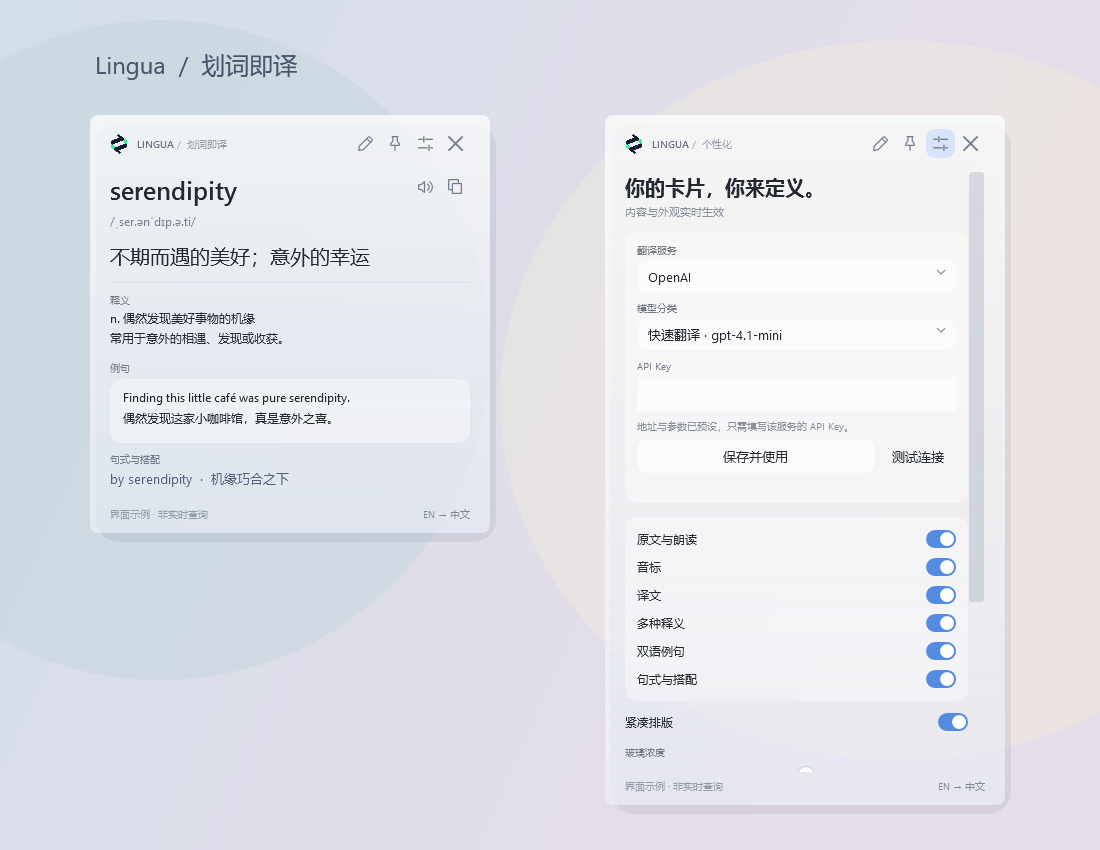
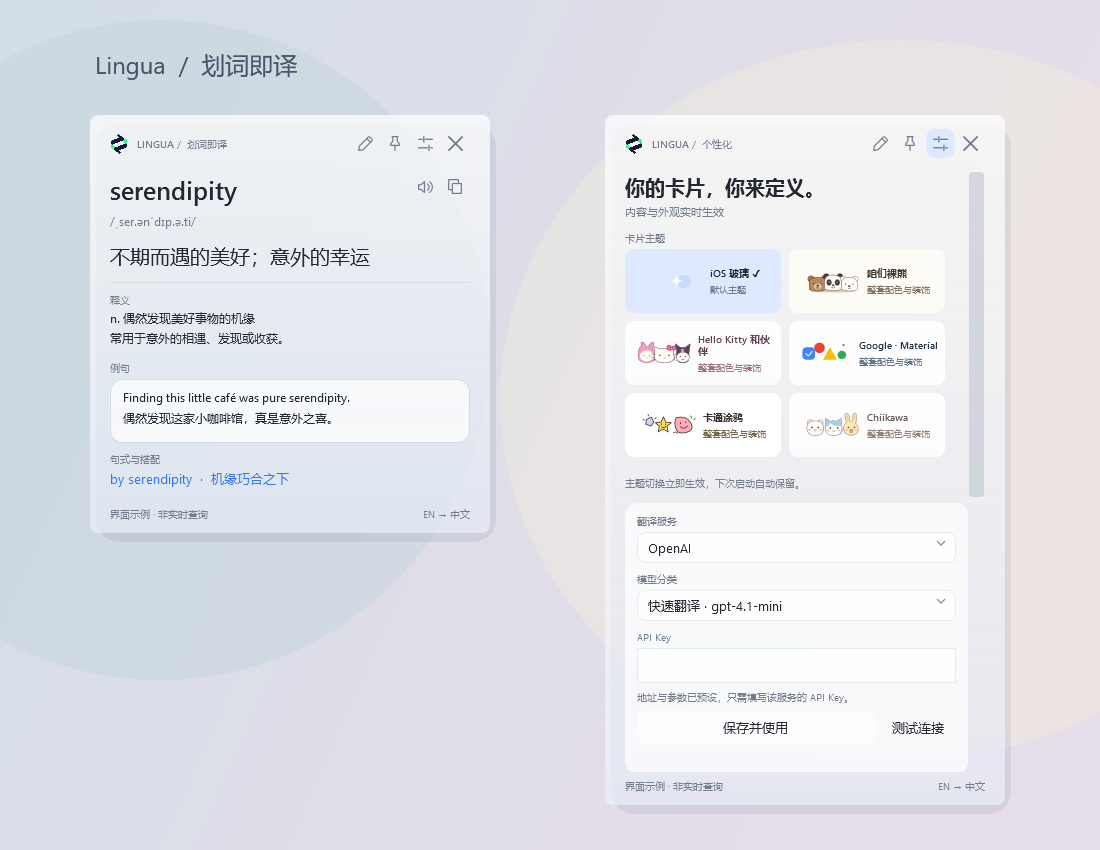
Add six selectable card themes with iOS default

diff --git a/Card.xaml b/Card.xaml
@@ -3,55 +3,61 @@
   <Style TargetType="ScrollBar"><Setter Property="Width" Value="6"/><Setter Property="Background" Value="Transparent"/><Setter Property="Template"><Setter.Value><ControlTemplate TargetType="ScrollBar"><Track x:Name="PART_Track" IsDirectionReversed="True" Orientation="Vertical"><Track.DecreaseRepeatButton><RepeatButton Command="ScrollBar.PageUpCommand" Opacity="0" Focusable="False"/></Track.DecreaseRepeatButton><Track.Thumb><Thumb><Thumb.Template><ControlTemplate><Border Background="#50919CAB" CornerRadius="3" Margin="1,0"/></ControlTemplate></Thumb.Template></Thumb></Track.Thumb><Track.IncreaseRepeatButton><RepeatButton Command="ScrollBar.PageDownCommand" Opacity="0" Focusable="False"/></Track.IncreaseRepeatButton></Track></ControlTemplate></Setter.Value></Setter></Style>
   <SolidColorBrush x:Key="Ink" Color="#242832"/>
   <SolidColorBrush x:Key="Muted" Color="#747986"/>
-  <Style TargetType="TextBlock"><Setter Property="Foreground" Value="{StaticResource Ink}"/><Setter Property="TextWrapping" Value="Wrap"/><Setter Property="FontSize" Value="13"/></Style>
-  <Style x:Key="Caption" TargetType="TextBlock"><Setter Property="Foreground" Value="{StaticResource Muted}"/><Setter Property="FontSize" Value="10"/><Setter Property="Margin" Value="0,0,0,5"/></Style>
-  <Style TargetType="Button"><Setter Property="Cursor" Value="Hand"/><Setter Property="Background" Value="Transparent"/><Setter Property="Foreground" Value="{StaticResource Ink}"/><Setter Property="Padding" Value="7"/><Setter Property="BorderThickness" Value="0"/><Setter Property="Template"><Setter.Value><ControlTemplate TargetType="Button"><Border x:Name="b" CornerRadius="9" Background="{TemplateBinding Background}" Padding="{TemplateBinding Padding}"><ContentPresenter HorizontalAlignment="Center" VerticalAlignment="Center"/></Border><ControlTemplate.Triggers><Trigger Property="IsMouseOver" Value="True"><Setter TargetName="b" Property="Background" Value="#A6FFFFFF"/></Trigger><Trigger Property="IsPressed" Value="True"><Setter TargetName="b" Property="Background" Value="#CADCE3F4"/></Trigger><Trigger Property="IsKeyboardFocused" Value="True"><Setter TargetName="b" Property="BorderBrush" Value="#7194E9"/><Setter TargetName="b" Property="BorderThickness" Value="1"/></Trigger></ControlTemplate.Triggers></ControlTemplate></Setter.Value></Setter></Style>
-  <Style TargetType="CheckBox"><Setter Property="Margin" Value="0,5"/><Setter Property="FontSize" Value="12"/><Setter Property="Foreground" Value="{StaticResource Ink}"/><Setter Property="Cursor" Value="Hand"/><Setter Property="Template"><Setter.Value><ControlTemplate TargetType="CheckBox"><DockPanel><Border x:Name="track" DockPanel.Dock="Right" Width="30" Height="18" CornerRadius="9" Background="#CCD0D7"><Ellipse x:Name="thumb" Width="14" Height="14" Fill="White" HorizontalAlignment="Left" Margin="2"/></Border><ContentPresenter VerticalAlignment="Center"/></DockPanel><ControlTemplate.Triggers><Trigger Property="IsChecked" Value="True"><Setter TargetName="track" Property="Background" Value="#528BDF"/><Setter TargetName="thumb" Property="HorizontalAlignment" Value="Right"/></Trigger><Trigger Property="IsKeyboardFocused" Value="True"><Setter TargetName="track" Property="BorderBrush" Value="#243F76"/><Setter TargetName="track" Property="BorderThickness" Value="1"/></Trigger></ControlTemplate.Triggers></ControlTemplate></Setter.Value></Setter></Style>
+  <SolidColorBrush x:Key="AccentBrush" Color="#3478F6"/>
+  <SolidColorBrush x:Key="AccentSoftBrush" Color="#DEE9FF"/>
+  <SolidColorBrush x:Key="PanelBrush" Color="#B8FFFFFF"/>
+  <SolidColorBrush x:Key="LineBrush" Color="#23748195"/>
+  <Style TargetType="TextBlock"><Setter Property="Foreground" Value="{DynamicResource Ink}"/><Setter Property="TextWrapping" Value="Wrap"/><Setter Property="FontSize" Value="13"/></Style>
+  <Style x:Key="Caption" TargetType="TextBlock"><Setter Property="Foreground" Value="{DynamicResource Muted}"/><Setter Property="FontSize" Value="10"/><Setter Property="Margin" Value="0,0,0,5"/></Style>
+  <Style TargetType="Button"><Setter Property="Cursor" Value="Hand"/><Setter Property="Background" Value="Transparent"/><Setter Property="Foreground" Value="{DynamicResource Ink}"/><Setter Property="Padding" Value="7"/><Setter Property="BorderThickness" Value="0"/><Setter Property="Template"><Setter.Value><ControlTemplate TargetType="Button"><Border x:Name="b" CornerRadius="9" Background="{TemplateBinding Background}" Padding="{TemplateBinding Padding}"><ContentPresenter HorizontalAlignment="Center" VerticalAlignment="Center"/></Border><ControlTemplate.Triggers><Trigger Property="IsMouseOver" Value="True"><Setter TargetName="b" Property="Background" Value="{DynamicResource PanelBrush}"/></Trigger><Trigger Property="IsPressed" Value="True"><Setter TargetName="b" Property="Background" Value="{DynamicResource AccentSoftBrush}"/></Trigger><Trigger Property="IsKeyboardFocused" Value="True"><Setter TargetName="b" Property="BorderBrush" Value="#7194E9"/><Setter TargetName="b" Property="BorderThickness" Value="1"/></Trigger></ControlTemplate.Triggers></ControlTemplate></Setter.Value></Setter></Style>
+  <Style TargetType="CheckBox"><Setter Property="Margin" Value="0,5"/><Setter Property="FontSize" Value="12"/><Setter Property="Foreground" Value="{DynamicResource Ink}"/><Setter Property="Cursor" Value="Hand"/><Setter Property="Template"><Setter.Value><ControlTemplate TargetType="CheckBox"><DockPanel><Border x:Name="track" DockPanel.Dock="Right" Width="30" Height="18" CornerRadius="9" Background="#CCD0D7"><Ellipse x:Name="thumb" Width="14" Height="14" Fill="White" HorizontalAlignment="Left" Margin="2"/></Border><ContentPresenter VerticalAlignment="Center"/></DockPanel><ControlTemplate.Triggers><Trigger Property="IsChecked" Value="True"><Setter TargetName="track" Property="Background" Value="{DynamicResource AccentBrush}"/><Setter TargetName="thumb" Property="HorizontalAlignment" Value="Right"/></Trigger><Trigger Property="IsKeyboardFocused" Value="True"><Setter TargetName="track" Property="BorderBrush" Value="#243F76"/><Setter TargetName="track" Property="BorderThickness" Value="1"/></Trigger></ControlTemplate.Triggers></ControlTemplate></Setter.Value></Setter></Style>
   <Style TargetType="TextBox"><Setter Property="Background" Value="#96FFFFFF"/><Setter Property="BorderBrush" Value="#C6D2D8E3"/><Setter Property="Padding" Value="8,6"/><Setter Property="FontSize" Value="12"/><Setter Property="Margin" Value="0,4,0,8"/></Style>
-  <Style TargetType="ComboBox"><Setter Property="FontSize" Value="12"/><Setter Property="Template"><Setter.Value><ControlTemplate TargetType="ComboBox"><Grid><ToggleButton Focusable="False" IsChecked="{Binding IsDropDownOpen, RelativeSource={RelativeSource TemplatedParent}, Mode=TwoWay}"><ToggleButton.Template><ControlTemplate TargetType="ToggleButton"><Border Background="#87FFFFFF" CornerRadius="8" BorderThickness="1" BorderBrush="#70FFFFFF" Padding="10,8"><Path Data="M0 0 L4 4 L8 0" Stroke="#8892A2" StrokeThickness="1.3" HorizontalAlignment="Right"/></Border></ControlTemplate></ToggleButton.Template></ToggleButton><ContentPresenter Content="{TemplateBinding SelectionBoxItem}" Margin="11,7,28,7" IsHitTestVisible="False"/><Popup x:Name="PART_Popup" IsOpen="{TemplateBinding IsDropDownOpen}" Placement="Bottom" AllowsTransparency="True" Focusable="False" PopupAnimation="Fade"><Border Background="#F3F5F8" CornerRadius="9" Padding="5" MinWidth="200" BorderBrush="#D5DCE6" BorderThickness="1"><ScrollViewer MaxHeight="220"><ItemsPresenter/></ScrollViewer></Border></Popup></Grid></ControlTemplate></Setter.Value></Setter></Style>
-  <Style TargetType="Slider"><Setter Property="Height" Value="24"/><Setter Property="Template"><Setter.Value><ControlTemplate TargetType="Slider"><Grid><Border Height="3" Background="#D4DAE3" CornerRadius="2"/><Track x:Name="PART_Track"><Track.DecreaseRepeatButton><RepeatButton Command="Slider.DecreaseLarge" Focusable="False"><RepeatButton.Template><ControlTemplate><Border Height="3" Background="#8AAADB" CornerRadius="2"/></ControlTemplate></RepeatButton.Template></RepeatButton></Track.DecreaseRepeatButton><Track.Thumb><Thumb Width="18" Height="18"><Thumb.Template><ControlTemplate><Ellipse Fill="#FFFFFF" Stroke="#C2CDDC" StrokeThickness="1"/></ControlTemplate></Thumb.Template></Thumb></Track.Thumb><Track.IncreaseRepeatButton><RepeatButton Command="Slider.IncreaseLarge" Focusable="False"><RepeatButton.Template><ControlTemplate><Border Background="Transparent"/></ControlTemplate></RepeatButton.Template></RepeatButton></Track.IncreaseRepeatButton></Track></Grid></ControlTemplate></Setter.Value></Setter></Style>
+  <Style TargetType="ComboBox"><Setter Property="FontSize" Value="12"/><Setter Property="Template"><Setter.Value><ControlTemplate TargetType="ComboBox"><Grid><ToggleButton Focusable="False" IsChecked="{Binding IsDropDownOpen, RelativeSource={RelativeSource TemplatedParent}, Mode=TwoWay}"><ToggleButton.Template><ControlTemplate TargetType="ToggleButton"><Border Background="{DynamicResource PanelBrush}" CornerRadius="8" BorderThickness="1" BorderBrush="{DynamicResource LineBrush}" Padding="10,8"><Path Data="M0 0 L4 4 L8 0" Stroke="#8892A2" StrokeThickness="1.3" HorizontalAlignment="Right"/></Border></ControlTemplate></ToggleButton.Template></ToggleButton><ContentPresenter Content="{TemplateBinding SelectionBoxItem}" Margin="11,7,28,7" IsHitTestVisible="False"/><Popup x:Name="PART_Popup" IsOpen="{TemplateBinding IsDropDownOpen}" Placement="Bottom" AllowsTransparency="True" Focusable="False" PopupAnimation="Fade"><Border Background="#F3F5F8" CornerRadius="9" Padding="5" MinWidth="200" BorderBrush="#D5DCE6" BorderThickness="1"><ScrollViewer MaxHeight="220"><ItemsPresenter/></ScrollViewer></Border></Popup></Grid></ControlTemplate></Setter.Value></Setter></Style>
+  <Style TargetType="Slider"><Setter Property="Height" Value="24"/><Setter Property="Template"><Setter.Value><ControlTemplate TargetType="Slider"><Grid><Border Height="3" Background="#D4DAE3" CornerRadius="2"/><Track x:Name="PART_Track"><Track.DecreaseRepeatButton><RepeatButton Command="Slider.DecreaseLarge" Focusable="False"><RepeatButton.Template><ControlTemplate><Border Height="3" Background="{DynamicResource AccentBrush}" CornerRadius="2"/></ControlTemplate></RepeatButton.Template></RepeatButton></Track.DecreaseRepeatButton><Track.Thumb><Thumb Width="18" Height="18"><Thumb.Template><ControlTemplate><Ellipse Fill="#FFFFFF" Stroke="#C2CDDC" StrokeThickness="1"/></ControlTemplate></Thumb.Template></Thumb></Track.Thumb><Track.IncreaseRepeatButton><RepeatButton Command="Slider.IncreaseLarge" Focusable="False"><RepeatButton.Template><ControlTemplate><Border Background="Transparent"/></ControlTemplate></RepeatButton.Template></RepeatButton></Track.IncreaseRepeatButton></Track></Grid></ControlTemplate></Setter.Value></Setter></Style>
  </Border.Resources>
  <StackPanel>
   <Grid x:Name="Header" Margin="0,0,0,13" Background="Transparent">
-   <StackPanel Orientation="Horizontal" VerticalAlignment="Center"><Image x:Name="BrandLogo" Width="30" Height="30" Margin="-6,0,3,0" Stretch="Uniform"/><TextBlock Text="LINGUA" FontSize="10" FontWeight="SemiBold" Foreground="#6A7180" VerticalAlignment="Center"/><TextBlock x:Name="Mode" Text=" /  划词即译" FontSize="10" Foreground="#969BA5" VerticalAlignment="Center"/></StackPanel>
+   <StackPanel Orientation="Horizontal" VerticalAlignment="Center"><Image x:Name="BrandLogo" Width="30" Height="30" Margin="-6,0,3,0" Stretch="Uniform"/><TextBlock Text="LINGUA" FontSize="10" FontWeight="SemiBold" Foreground="{DynamicResource Muted}" VerticalAlignment="Center"/><TextBlock x:Name="Mode" Text=" /  划词即译" FontSize="10" Foreground="{DynamicResource Muted}" VerticalAlignment="Center"/></StackPanel>
    <StackPanel x:Name="Tools" Orientation="Horizontal" HorizontalAlignment="Right"/>
   </Grid>
   <ScrollViewer x:Name="Viewport" VerticalScrollBarVisibility="Auto" HorizontalScrollBarVisibility="Disabled" MaxHeight="560">
    <StackPanel>
     <StackPanel x:Name="Reading">
+     <Border x:Name="ThemeBanner" Background="{DynamicResource PanelBrush}" CornerRadius="14" Padding="12,0,3,0" Margin="0,0,0,12" Visibility="Collapsed"><Grid Height="70"><Grid.ColumnDefinitions><ColumnDefinition/><ColumnDefinition Width="150"/></Grid.ColumnDefinitions><StackPanel VerticalAlignment="Center"><TextBlock x:Name="ThemeName" FontSize="11" FontWeight="SemiBold" Foreground="{DynamicResource AccentBrush}"/><TextBlock x:Name="ThemeSubtitle" FontSize="10" Foreground="{DynamicResource Muted}" Margin="0,5,0,0"/></StackPanel><Image x:Name="ThemeArt" Grid.Column="1" Width="150" Height="68" Stretch="Uniform"/></Grid></Border>
      <Grid x:Name="OriginalSection" Margin="0,0,0,7"><Grid.ColumnDefinitions><ColumnDefinition/><ColumnDefinition Width="Auto"/></Grid.ColumnDefinitions><TextBlock x:Name="Original" Text="划词，即刻理解。" FontSize="25" FontWeight="SemiBold" LineHeight="31"/><StackPanel x:Name="WordTools" Grid.Column="1" Orientation="Horizontal" VerticalAlignment="Top" Margin="6,0,0,0"/></Grid>
-     <TextBlock x:Name="Phonetic" Foreground="#7A8190" FontSize="12" Margin="0,0,0,12"/>
-     <Border x:Name="Editor" Background="#65FFFFFF" CornerRadius="12" Padding="8" Margin="0,0,0,10" Visibility="Collapsed"><StackPanel><TextBox x:Name="Input" AcceptsReturn="True" MaxLength="2000" Height="66" TextWrapping="Wrap" VerticalScrollBarVisibility="Auto"/><Button x:Name="Submit" Content="翻译  ↵" HorizontalAlignment="Right" Padding="14,6" Background="#B6FFFFFF"/></StackPanel></Border>
+     <TextBlock x:Name="Phonetic" Foreground="{DynamicResource Muted}" FontSize="12" Margin="0,0,0,12"/>
+     <Border x:Name="Editor" Background="{DynamicResource PanelBrush}" CornerRadius="12" Padding="8" Margin="0,0,0,10" Visibility="Collapsed"><StackPanel><TextBox x:Name="Input" AcceptsReturn="True" MaxLength="2000" Height="66" TextWrapping="Wrap" VerticalScrollBarVisibility="Auto"/><Button x:Name="Submit" Content="翻译  ↵" HorizontalAlignment="Right" Padding="14,6" Background="{DynamicResource PanelBrush}"/></StackPanel></Border>
      <StackPanel x:Name="TranslationSection" Margin="0,0,0,13"><TextBlock x:Name="Translation" Text="选中一段文字，翻译会自动浮现。" FontSize="20" FontWeight="Medium" LineHeight="28"/></StackPanel>
-     <Border x:Name="DetailsSection" BorderBrush="#20778195" BorderThickness="0,1,0,0" Padding="0,11,0,0" Margin="0,0,0,11"><StackPanel><TextBlock Text="释义" Style="{StaticResource Caption}"/><TextBlock x:Name="Details" LineHeight="20"/></StackPanel></Border>
-     <StackPanel x:Name="ExamplesSection" Margin="0,0,0,10"><TextBlock Text="例句" Style="{StaticResource Caption}"/><Border Background="#65FFFFFF" BorderBrush="#75FFFFFF" BorderThickness="1" CornerRadius="12" Padding="12,10"><TextBlock x:Name="Examples" LineHeight="21"/></Border></StackPanel>
-     <StackPanel x:Name="StructureSection" Margin="0,0,0,10"><TextBlock Text="句式与搭配" Style="{StaticResource Caption}"/><TextBlock x:Name="Structure" Foreground="#53627C" LineHeight="20"/></StackPanel>
-     <TextBlock x:Name="Notice" Text="点击右上角，自定义你的学习卡片。" Foreground="#87909E" FontSize="11" Margin="0,1,0,10"/>
+     <Border x:Name="DetailsSection" BorderBrush="{DynamicResource LineBrush}" BorderThickness="0,1,0,0" Padding="0,11,0,0" Margin="0,0,0,11"><StackPanel><TextBlock Text="释义" Style="{StaticResource Caption}"/><TextBlock x:Name="Details" LineHeight="20"/></StackPanel></Border>
+     <StackPanel x:Name="ExamplesSection" Margin="0,0,0,10"><TextBlock Text="例句" Style="{StaticResource Caption}"/><Border x:Name="ExampleSurface" Background="{DynamicResource PanelBrush}" BorderBrush="{DynamicResource LineBrush}" BorderThickness="1" CornerRadius="12" Padding="12,10"><TextBlock x:Name="Examples" LineHeight="21"/></Border></StackPanel>
+     <StackPanel x:Name="StructureSection" Margin="0,0,0,10"><TextBlock Text="句式与搭配" Style="{StaticResource Caption}"/><TextBlock x:Name="Structure" Foreground="{DynamicResource AccentBrush}" LineHeight="20"/></StackPanel>
+     <TextBlock x:Name="Notice" Text="点击右上角，自定义你的学习卡片。" Foreground="{DynamicResource Muted}" FontSize="11" Margin="0,1,0,10"/>
     </StackPanel>
     <StackPanel x:Name="Preferences" Visibility="Collapsed">
-     <TextBlock Text="你的卡片，你来定义。" FontSize="20" FontWeight="SemiBold" Margin="0,0,0,5"/><TextBlock Text="内容与外观实时生效" FontSize="11" Foreground="#89909C" Margin="0,0,0,14"/>
-     <Border CornerRadius="12" Background="#65FFFFFF" Padding="12" Margin="0,0,0,14"><StackPanel>
+     <TextBlock Text="你的卡片，你来定义。" FontSize="20" FontWeight="SemiBold" Margin="0,0,0,5"/><TextBlock Text="内容与外观实时生效" FontSize="11" Foreground="{DynamicResource Muted}" Margin="0,0,0,14"/>
+     <TextBlock Text="卡片主题" Style="{StaticResource Caption}"/><WrapPanel x:Name="ThemeGallery" Margin="0,0,0,12"/><TextBlock Text="主题切换立即生效，下次启动自动保留。" FontSize="10" Foreground="{DynamicResource Muted}" Margin="0,0,0,14"/>
+     <Border CornerRadius="12" Background="{DynamicResource PanelBrush}" Padding="12" Margin="0,0,0,14"><StackPanel>
       <TextBlock Text="翻译服务" Style="{StaticResource Caption}"/><ComboBox x:Name="Service" Margin="0,0,0,10"/>
       <StackPanel x:Name="PresetSection"><TextBlock Text="模型分类" Style="{StaticResource Caption}"/><ComboBox x:Name="ModelPreset" Margin="0,0,0,10"/></StackPanel>
       <StackPanel x:Name="CustomSection" Visibility="Collapsed"><TextBlock Text="HTTPS 完整接口地址" FontSize="11"/><TextBox x:Name="Endpoint"/><TextBlock Text="模型名称" FontSize="11"/><TextBox x:Name="Model"/></StackPanel>
-      <StackPanel x:Name="KeySection"><TextBlock Text="API Key" Style="{StaticResource Caption}"/><PasswordBox x:Name="ApiKey" Padding="8,8" Margin="0,0,0,8" Background="#96FFFFFF" BorderBrush="#80FFFFFF"/></StackPanel>
-      <TextBlock x:Name="ServiceHint" Text="选择服务和模型，只需填写 Key。" FontSize="10" Foreground="#89909C" Margin="0,0,0,8"/>
-      <Grid><Grid.ColumnDefinitions><ColumnDefinition/><ColumnDefinition Width="Auto"/></Grid.ColumnDefinitions><Button x:Name="SaveService" Content="保存并使用" Padding="12,8" Background="#A0FFFFFF"/><Button x:Name="TestService" Grid.Column="1" Content="测试连接" Padding="12,8" Margin="5,0,0,0" ToolTip="使用 hello 进行一次模型测试调用"/></Grid>
-      <TextBlock x:Name="ServiceStatus" FontSize="10" Foreground="#677D9D" Margin="0,6,0,0"/>
+      <StackPanel x:Name="KeySection"><TextBlock Text="API Key" Style="{StaticResource Caption}"/><PasswordBox x:Name="ApiKey" Padding="8,8" Margin="0,0,0,8" Background="{DynamicResource PanelBrush}" BorderBrush="{DynamicResource LineBrush}"/></StackPanel>
+      <TextBlock x:Name="ServiceHint" Text="选择服务和模型，只需填写 Key。" FontSize="10" Foreground="{DynamicResource Muted}" Margin="0,0,0,8"/>
+      <Grid><Grid.ColumnDefinitions><ColumnDefinition/><ColumnDefinition Width="Auto"/></Grid.ColumnDefinitions><Button x:Name="SaveService" Content="保存并使用" Padding="12,8" Background="{DynamicResource PanelBrush}"/><Button x:Name="TestService" Grid.Column="1" Content="测试连接" Padding="12,8" Margin="5,0,0,0" ToolTip="使用 hello 进行一次模型测试调用"/></Grid>
+      <TextBlock x:Name="ServiceStatus" FontSize="10" Foreground="{DynamicResource Muted}" Margin="0,6,0,0"/>
      </StackPanel></Border>
-     <Border CornerRadius="12" Background="#65FFFFFF" Padding="12,8"><StackPanel x:Name="ModuleOptions"/></Border>
+     <Border CornerRadius="12" Background="{DynamicResource PanelBrush}" Padding="12,8"><StackPanel x:Name="ModuleOptions"/></Border>
      <CheckBox x:Name="CompactOption" Content="紧凑排版" Margin="0,12,0,7"/>
      <TextBlock Text="玻璃浓度" Style="{StaticResource Caption}" Margin="0,8,0,5"/><Slider x:Name="Tint" Minimum="70" Maximum="240" TickFrequency="10" IsSnapToTickEnabled="True" Margin="0,0,0,12"/>
-     <CheckBox x:Name="AutomaticOption" Content="划词后自动翻译"/><TextBlock Text="启用时，选中的文本会直接发送到翻译服务。" FontSize="10" Foreground="#8A919E" Margin="0,4,0,12"/>
+     <CheckBox x:Name="AutomaticOption" Content="划词后自动翻译"/><TextBlock Text="启用时，选中的文本会直接发送到翻译服务。" FontSize="10" Foreground="{DynamicResource Muted}" Margin="0,4,0,12"/>
      <TextBlock Text="目标语言" Style="{StaticResource Caption}"/><ComboBox x:Name="Language" Margin="0,0,0,12"/>
      <TextBlock Text="朗读声音" Style="{StaticResource Caption}"/><ComboBox x:Name="Voice" Margin="0,0,0,12"/>
      <Expander Header="排除应用" FontSize="12" Margin="0,5,0,10"><StackPanel Margin="0,12,0,0">
       <TextBlock Text="排除应用 · 逗号分隔进程名" FontSize="11"/><TextBox x:Name="Excluded"/>
-      <Button x:Name="SaveExcluded" Content="保存排除应用" Padding="12,8" Background="#A0FFFFFF"/>
+      <Button x:Name="SaveExcluded" Content="保存排除应用" Padding="12,8" Background="{DynamicResource PanelBrush}"/>
      </StackPanel></Expander>
     </StackPanel>
    </StackPanel>
   </ScrollViewer>
-  <Grid Margin="0,8,0,0"><Grid.ColumnDefinitions><ColumnDefinition/><ColumnDefinition Width="Auto"/></Grid.ColumnDefinitions><TextBlock x:Name="Status" Text="就绪" Foreground="#949BA7" FontSize="10" TextTrimming="CharacterEllipsis" TextWrapping="NoWrap" VerticalAlignment="Center"/><TextBlock x:Name="LanguageLabel" Grid.Column="1" Text="EN → 中文" Foreground="#818997" FontSize="10" Margin="12,0,0,0" VerticalAlignment="Center"/></Grid>
+  <Grid Margin="0,8,0,0"><Grid.ColumnDefinitions><ColumnDefinition/><ColumnDefinition Width="Auto"/></Grid.ColumnDefinitions><TextBlock x:Name="Status" Text="就绪" Foreground="{DynamicResource Muted}" FontSize="10" TextTrimming="CharacterEllipsis" TextWrapping="NoWrap" VerticalAlignment="Center"/><TextBlock x:Name="LanguageLabel" Grid.Column="1" Text="EN → 中文" Foreground="{DynamicResource Muted}" FontSize="10" Margin="12,0,0,0" VerticalAlignment="Center"/></Grid>
  </StackPanel>
 </Border>

diff --git a/GlassWindow.cs b/GlassWindow.cs
@@ -30,6 +30,7 @@ class GlassWindow : Window {
  string draftScope="";readonly Dictionary<string,string> draftKeys=new Dictionary<string,string>();
  string currentText=""; Answer answer; Button pinButton,settingsButton;
  readonly Dictionary<string,Answer> cache=new Dictionary<string,Answer>();
+ readonly List<Pen> iconPens=new List<Pen>();readonly List<Button> themeButtons=new List<Button>();
  static readonly XDocument vectors=LoadVectors();
  [DllImport("dwmapi.dll")] static extern int DwmSetWindowAttribute(IntPtr hwnd,int attr,ref int value,int size);
  [StructLayout(LayoutKind.Sequential)] struct Margins {public int Left,Right,Top,Bottom;}
@@ -41,7 +42,7 @@ class GlassWindow : Window {
  void Visible(string name,bool show){Find<FrameworkElement>(name).Visibility=show?Visibility.Visible:Visibility.Collapsed;}
  static Brush ColorBrush(string hex){return (Brush)new BrushConverter().ConvertFromString(hex);}
  public GlassWindow(bool test=false) {
-  testing=test;ServicePresets.Migrate(cfg);cfg.Instant=true;cfg.Target=Math.Max(0,Math.Min(6,cfg.Target));
+  testing=test;ServicePresets.Migrate(cfg);cfg.ThemeId=Themes.Get(cfg.ThemeId).Id;cfg.Instant=true;cfg.Target=Math.Max(0,Math.Min(6,cfg.Target));
   Title="Lingua · 玻璃划词卡片";Width=400;SizeToContent=SizeToContent.Height;MaxHeight=SystemParameters.WorkArea.Height-30;
   WindowStyle=WindowStyle.None;ResizeMode=ResizeMode.NoResize;ShowInTaskbar=false;ShowActivated=false;Topmost=true;
   Background=Brushes.Transparent;UseLayoutRounding=true;SnapsToDevicePixels=true;FontFamily=new FontFamily("Segoe UI, Microsoft YaHei UI");FontSize=13;WindowStartupLocation=WindowStartupLocation.CenterScreen;
@@ -52,7 +53,7 @@ class GlassWindow : Window {
   if(acrylic)shell.CornerRadius=new CornerRadius(8); // Match DWM's rounded corners; avoid exposing a second acrylic outline.
   Content=shell;TextOptions.SetTextFormattingMode(this,TextFormattingMode.Display);
   using(var stream=Assembly.GetExecutingAssembly().GetManifestResourceStream("LinguaSelect.logo.png")){var logo=new BitmapImage();logo.BeginInit();logo.CacheOption=BitmapCacheOption.OnLoad;logo.StreamSource=stream;logo.EndInit();logo.Freeze();Find<Image>("BrandLogo").Source=logo;Icon=logo;}
-  pinButton=IconButton("pin","固定卡片",()=>{pinned=!pinned;pinButton.Background=pinned?ColorBrush("#9FC6D9FA"):Brushes.Transparent;pinButton.ToolTip=pinned?"取消固定":"固定卡片";});
+  pinButton=IconButton("pin","固定卡片",()=>{pinned=!pinned;pinButton.Background=pinned?(Brush)shell.Resources["AccentSoftBrush"]:Brushes.Transparent;pinButton.ToolTip=pinned?"取消固定":"固定卡片";});
   settingsButton=IconButton("sliders","自定义卡片",()=>TogglePreferences());
   var tools=Find<StackPanel>("Tools");tools.Children.Add(pinButton);tools.Children.Add(settingsButton);tools.Children.Add(IconButton("close","收起卡片",Dismiss));
   var wordTools=Find<StackPanel>("WordTools");wordTools.Children.Add(IconButton("sound","朗读原文 / 停止",Speak));wordTools.Children.Add(IconButton("copy","复制译文",()=>{try{if(answer!=null)Clipboard.SetText(answer.Translation);}catch{Set("Status","剪贴板正忙，请稍后重试");}}));
@@ -80,12 +81,13 @@ class GlassWindow : Window {
  void AddMenu(ContextMenu menu,string text,Action action){var item=new MenuItem {Header=text};item.Click+=(s,e)=>action();menu.Items.Add(item);}
  Button IconButton(string id,string tooltip,Action action){
   var symbol=vectors.Descendants().First(x=>x.Name.LocalName=="symbol"&&(string)x.Attribute("id")==id);
-  var group=new DrawingGroup();foreach(var p in symbol.Elements()){var pen=new Pen(ColorBrush("#737D8E"),1.65){StartLineCap=PenLineCap.Round,EndLineCap=PenLineCap.Round,LineJoin=PenLineJoin.Round};group.Children.Add(new GeometryDrawing(null,pen,Geometry.Parse((string)p.Attribute("d"))));}
+  var group=new DrawingGroup();foreach(var p in symbol.Elements()){var pen=new Pen(ColorBrush("#737D8E"),1.65){StartLineCap=PenLineCap.Round,EndLineCap=PenLineCap.Round,LineJoin=PenLineJoin.Round};iconPens.Add(pen);group.Children.Add(new GeometryDrawing(null,pen,Geometry.Parse((string)p.Attribute("d"))));}
   var image=new Image {Source=new DrawingImage(group),Width=15,Height=15,Stretch=Stretch.Uniform};
   var b=new Button {Content=image,Width=29,Height=29,Padding=new Thickness(7),ToolTip=tooltip,Margin=new Thickness(1,0,0,0)};
   System.Windows.Automation.AutomationProperties.SetName(b,tooltip);b.Click+=(s,e)=>action();return b;
  }
  void SetupPreferences(){
+  SetupThemeGallery();
   string[] fields={"ShowOriginal","ShowPhonetic","ShowTranslation","ShowDetails","ShowExamples","ShowStructure"};
   string[] names={"原文与朗读","音标","译文","多种释义","双语例句","句式与搭配"};
   for(int i=0;i<fields.Length;i++){var field=typeof(Settings).GetField(fields[i]);var c=new CheckBox {Content=names[i],IsChecked=(bool)field.GetValue(cfg)};c.Click+=(s,e)=>{field.SetValue(cfg,c.IsChecked==true);Save();Render();};Find<StackPanel>("ModuleOptions").Children.Add(c);}
@@ -127,12 +129,26 @@ class GlassWindow : Window {
  void SuppressSystemBorder(){if(handle!=IntPtr.Zero&&Environment.OSVersion.Version.Build>=22000){int none=unchecked((int)0xFFFFFFFE);borderResult=DwmSetWindowAttribute(handle,34,ref none,4);}}
  void Save(){if(testing)return;try{cfg.Save();}catch{Set("Status","无法保存设置，请检查本地目录权限");}}
  void ApplyAppearance(){
-  byte alpha=(byte)Math.Max(70,Math.Min(240,cfg.GlassTint));shell.Background=new LinearGradientBrush(Color.FromArgb((byte)Math.Min(250,alpha+30),255,255,255),Color.FromArgb(alpha,239,243,251),90);
+  var theme=Themes.Get(cfg.ThemeId);byte alpha=(byte)Math.Max(70,Math.Min(240,cfg.GlassTint));if(theme.Id!="ios")alpha=(byte)(215+(alpha-70)*0.2);
+  var top=(Color)ColorConverter.ConvertFromString(theme.Top);var bottom=(Color)ColorConverter.ConvertFromString(theme.Bottom);top.A=(byte)Math.Min(250,alpha+30);bottom.A=alpha;shell.Background=new LinearGradientBrush(top,bottom,90);
+  shell.Resources["Ink"]=Themes.Brush(theme.Ink);shell.Resources["Muted"]=Themes.Brush(theme.Muted);shell.Resources["AccentBrush"]=Themes.Brush(theme.Accent);shell.Resources["AccentSoftBrush"]=Themes.Brush(theme.Soft);shell.Resources["PanelBrush"]=Themes.Brush(theme.Panel);shell.Resources["LineBrush"]=Themes.Brush(theme.Line);
+  Foreground=Themes.Brush(theme.Ink);FontFamily=new FontFamily(theme.Font);foreach(var pen in iconPens){pen.Brush=Themes.Brush(theme.Muted);pen.Thickness=theme.Id=="doodle"?2.1:1.65;}
+  var example=Find<Border>("ExampleSurface");example.CornerRadius=new CornerRadius(theme.Id=="google"?18:theme.Id=="doodle"?5:12);example.BorderThickness=new Thickness(theme.Id=="doodle"?1.7:1);
+  Find<Image>("ThemeArt").Source=Themes.Illustration(theme.Id);Set("ThemeName",theme.Name);Set("ThemeSubtitle",theme.Subtitle);Visible("ThemeBanner",theme.Id!="ios");
+  Find<TextBlock>("Original").FontWeight=theme.Id=="google"?FontWeights.Medium:FontWeights.SemiBold;
+  if(pinButton!=null)pinButton.Background=pinned?Themes.Brush(theme.Soft):Brushes.Transparent;if(settingsButton!=null)settingsButton.Background=preferences?Themes.Brush(theme.Soft):Brushes.Transparent;
+  foreach(var b in themeButtons){var t=(CardTheme)b.Tag;b.Background=Themes.Brush(t.Id==theme.Id?t.Soft:t.Panel);var text=((StackPanel)((Grid)b.Content).Children[1]).Children[0] as TextBlock;text.Text=t.Name+(t.Id==theme.Id?" ✓":"");}
   shell.Padding=cfg.Compact?new Thickness(20,14,20,13):new Thickness(24,20,24,20);Width=cfg.Compact?400:440;
   Find<TextBlock>("Details").FontSize=cfg.Compact?12:14;Find<TextBlock>("Examples").FontSize=cfg.Compact?12:14;
   if(initialized)Fit();
  }
- void TogglePreferences(bool? value=null){preferences=value??!preferences;Visible("Preferences",preferences);Visible("Reading",!preferences);settingsButton.Background=preferences?ColorBrush("#9FC6D9FA"):Brushes.Transparent;Set("Mode",preferences?" /  个性化":" /  划词即译");Fit();}
+ void TogglePreferences(bool? value=null){preferences=value??!preferences;Visible("Preferences",preferences);Visible("Reading",!preferences);settingsButton.Background=preferences?(Brush)shell.Resources["AccentSoftBrush"]:Brushes.Transparent;Set("Mode",preferences?" /  个性化":" /  划词即译");Fit();}
+ void SetupThemeGallery(){
+  foreach(var theme in Themes.All){var t=theme;var grid=new Grid();grid.ColumnDefinitions.Add(new ColumnDefinition {Width=new GridLength(58)});grid.ColumnDefinitions.Add(new ColumnDefinition());grid.Children.Add(new Image {Source=Themes.Illustration(t.Id),Width=57,Height=42});
+   var labels=new StackPanel {VerticalAlignment=VerticalAlignment.Center,Margin=new Thickness(5,0,0,0)};labels.Children.Add(new TextBlock {Text=t.Name,FontSize=10,FontWeight=FontWeights.SemiBold,Foreground=Themes.Brush(t.Ink),TextWrapping=TextWrapping.Wrap});labels.Children.Add(new TextBlock {Text=t.Id=="ios"?"默认主题":"整套配色与装饰",FontSize=9,Foreground=Themes.Brush(t.Muted),Margin=new Thickness(0,4,0,0)});Grid.SetColumn(labels,1);grid.Children.Add(labels);
+   var button=new Button {Content=grid,Tag=t,Width=156,Height=64,Margin=new Thickness(0,0,8,8),Padding=new Thickness(6),ToolTip=t.Name+" · "+t.Subtitle};button.Click+=(s,e)=>{cfg.ThemeId=t.Id;ApplyAppearance();Save();};themeButtons.Add(button);Find<WrapPanel>("ThemeGallery").Children.Add(button);
+  }
+ }
  void OpenEditor(){TogglePreferences(false);Visible("Editor",true);Find<TextBox>("Input").Text=currentText;Show();Activate();Find<TextBox>("Input").Focus();Fit();}
  void Render(){
   Set("Original",currentText==""?"划词，即刻理解。":currentText);Set("LanguageLabel",(Provider.SourceLanguage(currentText)=="en"?"EN":"中文")+" → "+Provider.Languages[cfg.Target]);
@@ -205,7 +221,7 @@ class GlassWindow : Window {
  static RenderTargetBitmap Snapshot(FrameworkElement element){var bitmap=new RenderTargetBitmap((int)Math.Ceiling(element.ActualWidth),(int)Math.Ceiling(element.ActualHeight),96,96,PixelFormats.Pbgra32);bitmap.Render(element);return bitmap;}
  public static void UiTests(){
   var results=new List<string>();int failures=0;Action<string,bool> check=(name,ok)=>{results.Add((ok?"PASS ":"FAIL ")+name);if(!ok)failures++;};
-  var app=new Application();var card=new GlassWindow(true);IntPtr foreground=Native.GetForegroundWindow();card.Show();card.UpdateLayout();
+  var app=new Application();var card=new GlassWindow(true);card.cfg.ThemeId="ios";card.ApplyAppearance();IntPtr foreground=Native.GetForegroundWindow();card.Show();card.UpdateLayout();
   check("Card opens without activating",foreground==Native.GetForegroundWindow());check("Direct selection mode migrated",card.cfg.Instant);
   if(Environment.OSVersion.Version.Build>=22621)check("Desktop Acrylic accepted by DWM",card.dwmResult==0);
   if(Environment.OSVersion.Version.Build>=22000)check("System accepts border suppression",card.borderResult==0);
@@ -222,6 +238,11 @@ class GlassWindow : Window {
   card.Find<ComboBox>("Service").SelectedItem=ServicePresets.Get("openai");card.Find<PasswordBox>("ApiKey").Password="ui-fake-key";var prepared=card.PrepareService();check("Key-only setup fills endpoint and model",prepared.Endpoint=="https://api.openai.com/v1/chat/completions"&&prepared.Model=="gpt-4.1-mini"&&prepared.Key=="ui-fake-key");
   card.Find<ComboBox>("Service").SelectedItem=ServicePresets.Get("deepseek");check("Provider switch does not carry the other key",card.Find<PasswordBox>("ApiKey").Password!="ui-fake-key");
   card.Find<ComboBox>("Service").SelectedItem=ServicePresets.Get("openai");check("Switching back restores draft key",card.Find<PasswordBox>("ApiKey").Password=="ui-fake-key");
+  check("Default theme is iOS",new Settings().ThemeId=="ios");
+  foreach(var theme in Themes.All){card.cfg.ThemeId=theme.Id;card.ApplyAppearance();var json=new System.Web.Script.Serialization.JavaScriptSerializer();check("Theme "+theme.Id+" palette, art and persistence",((SolidColorBrush)card.shell.Resources["AccentBrush"]).Color==Themes.Brush(theme.Accent).Color&&card.Find<Image>("ThemeArt").Source!=null&&json.Deserialize<Settings>(json.Serialize(card.cfg)).ThemeId==theme.Id);}
+  check("Unknown theme falls back to iOS",Themes.Get("unknown").Id=="ios");
+  card.UpdateLayout();check("Theme chooser uses two columns",Math.Abs(card.themeButtons[0].TranslatePoint(new Point(),card.shell).Y-card.themeButtons[1].TranslatePoint(new Point(),card.shell).Y)<1);
+  card.currentText=new string('W',120);card.answer.Translation=new string('字',240);card.Render();check("Long content remains inside card",card.ActualWidth==400&&card.ActualHeight<=card.MaxHeight&&card.Find<ScrollViewer>("Viewport").ActualHeight<=card.Find<ScrollViewer>("Viewport").MaxHeight);
   results.Add("OS build: "+Environment.OSVersion.Version.Build);results.Add("Failures: "+failures);File.WriteAllLines(Path.Combine(AppDomain.CurrentDomain.BaseDirectory,"ui-test-results.txt"),results);
   card.Close();app.Shutdown();Environment.ExitCode=failures==0?0:1;
  }
@@ -231,6 +252,18 @@ class GlassWindow : Window {
    var origin=backdrop.PointToScreen(new Point());var matrix=PresentationSource.FromVisual(backdrop).CompositionTarget.TransformToDevice;int width=(int)Math.Round(backdrop.ActualWidth*matrix.M11),height=(int)Math.Round(backdrop.ActualHeight*matrix.M22);
    using(var bitmap=new System.Drawing.Bitmap(width,height)){using(var graphics=System.Drawing.Graphics.FromImage(bitmap))graphics.CopyFromScreen((int)origin.X,(int)origin.Y,0,0,new System.Drawing.Size(width,height));bitmap.Save(Path.Combine(AppDomain.CurrentDomain.BaseDirectory,"native-edge-preview.png"));}
    card.Close();backdrop.Close();};app.Run(backdrop);
+ }
+ public static void ThemePreview(){
+  var app=new Application();var card=new GlassWindow(true);card.cfg.Compact=true;card.cfg.ShowOriginal=card.cfg.ShowPhonetic=card.cfg.ShowTranslation=card.cfg.ShowDetails=card.cfg.ShowExamples=card.cfg.ShowStructure=true;
+  card.currentText="serendipity";card.answer=new Answer {Translation="不期而遇的美好；意外的幸运",Phonetic="/ˌser.ənˈdɪp.ə.ti/",Details="n. 偶然发现美好事物的机缘\n常用于意外的相遇、发现或收获。",Examples="Finding this café was pure serendipity.\n偶然发现这家咖啡馆，真是意外之喜。",Structure="by serendipity · 机缘巧合之下"};card.Show();card.Render();
+  var visual=new DrawingVisual();using(var dc=visual.RenderOpen()){dc.DrawRectangle(Themes.Brush("#E8E9EE"),null,new Rect(0,0,1360,1300));dc.DrawText(new FormattedText("LINGUA / 六种心情，同样专注",System.Globalization.CultureInfo.InvariantCulture,FlowDirection.LeftToRight,new Typeface("Segoe UI, Microsoft YaHei UI"),28,Themes.Brush("#3D4354"),1),new Point(45,26));
+   for(int i=0;i<Themes.All.Length;i++){var theme=Themes.All[i];card.cfg.ThemeId=theme.Id;card.ApplyAppearance();card.Render();card.Set("Status","主题示例 · 非实时查询");card.UpdateLayout();var shot=Snapshot(card.shell);double x=45+(i%3)*445,y=100+(i/3)*590;
+    dc.DrawRoundedRectangle(Themes.Brush("#15000000"),null,new Rect(x+3,y+7,shot.Width,shot.Height),8,8);dc.DrawImage(shot,new Rect(x,y,shot.Width,shot.Height));
+    dc.DrawText(new FormattedText(theme.Name,System.Globalization.CultureInfo.InvariantCulture,FlowDirection.LeftToRight,new Typeface("Segoe UI, Microsoft YaHei UI"),15,Themes.Brush(theme.Ink),1),new Point(x,y-27));
+    var encoder=new PngBitmapEncoder();encoder.Frames.Add(BitmapFrame.Create(shot));using(var f=File.Create(Path.Combine(AppDomain.CurrentDomain.BaseDirectory,"theme-"+theme.Id+".png")))encoder.Save(f);
+   }
+  }
+  var bitmap=new RenderTargetBitmap(1360,1300,96,96,PixelFormats.Pbgra32);bitmap.Render(visual);var png=new PngBitmapEncoder();png.Frames.Add(BitmapFrame.Create(bitmap));using(var f=File.Create(Path.Combine(AppDomain.CurrentDomain.BaseDirectory,"主题总览.png")))png.Save(f);card.Close();app.Shutdown();
  }
 }
 }

diff --git a/Themes.cs b/Themes.cs
@@ -1,0 +1,42 @@
+using System;
+using System.Linq;
+using System.Reflection;
+using System.Xml.Linq;
+using System.Windows;
+using System.Windows.Media;
+namespace LinguaSelect {
+public class CardTheme {
+ public string Id,Name,Subtitle,Top,Bottom,Ink,Muted,Accent,Soft,Panel,Line,Font;
+ public CardTheme(string id,string name,string subtitle,string top,string bottom,string ink,string muted,string accent,string soft,string panel,string line,string font="Segoe UI, Microsoft YaHei UI") {Id=id;Name=name;Subtitle=subtitle;Top=top;Bottom=bottom;Ink=ink;Muted=muted;Accent=accent;Soft=soft;Panel=panel;Line=line;Font=font;}
+}
+static class Themes {
+ public static readonly CardTheme[] All={
+  new CardTheme("ios","iOS 玻璃","清透、轻盈、专注","#FFFFFF","#EEF3FD","#242832","#737D8E","#3478F6","#DEE9FF","#B8FFFFFF","#23748195"),
+  new CardTheme("bears","咱们裸熊","和三只熊一起慢慢学","#FFF9EF","#EFE6D6","#493A30","#88735E","#A76F42","#ECD8BD","#D9FFFDF6","#38A68565"),
+  new CardTheme("kitty","Hello Kitty 和伙伴","把新单词装进小礼物","#FFF8FC","#FFE4ED","#633E52","#9A7086","#E9679A","#FFD1E2","#DAFFFFFF","#44E8A4BF"),
+  new CardTheme("google","Google · Material","一点好奇，发现更多","#FCFDFF","#EAF1FA","#253549","#64768C","#4285F4","#D8E7FF","#E8FFFFFF","#32A0B7D5"),
+  new CardTheme("doodle","卡通涂鸦","把灵感画在单词旁边","#FFFDF2","#FFF1B8","#35312C","#766951","#7255D8","#E4DBFF","#F8FFFFFF","#C535312C","Comic Sans MS, Microsoft YaHei UI"),
+  new CardTheme("chiikawa","Chiikawa","今天也有小小的进步","#FFFBF7","#FAEDE8","#675C58","#97827B","#C9879E","#F2D8E2","#DFFFFFFF","#4AC7A59F")
+ };
+ static readonly XDocument art=Load();
+ static XDocument Load(){using(var s=Assembly.GetExecutingAssembly().GetManifestResourceStream("LinguaSelect.themes.svg"))return XDocument.Load(s);}
+ public static CardTheme Get(string id){return All.FirstOrDefault(t=>t.Id==id)??All[0];}
+ public static SolidColorBrush Brush(string color){return new SolidColorBrush((Color)ColorConverter.ConvertFromString(color));}
+ public static DrawingImage Illustration(string id){
+  var symbol=art.Descendants().First(x=>x.Name.LocalName=="symbol"&&(string)x.Attribute("id")==id);var drawing=new DrawingGroup();
+  drawing.Children.Add(new GeometryDrawing(Brushes.Transparent,null,new RectangleGeometry(new Rect(0,0,180,80))));
+  foreach(var p in symbol.Elements()){
+   Geometry geo;string name=p.Name.LocalName;
+   if(name=="path")geo=Geometry.Parse((string)p.Attribute("d"));
+   else if(name=="ellipse")geo=new EllipseGeometry(new Point(N(p,"cx"),N(p,"cy")),N(p,"rx"),N(p,"ry"));
+   else if(name=="circle")geo=new EllipseGeometry(new Point(N(p,"cx"),N(p,"cy")),N(p,"r"),N(p,"r"));
+   else if(name=="rect")geo=new RectangleGeometry(new Rect(N(p,"x"),N(p,"y"),N(p,"width"),N(p,"height")),N(p,"rx"),N(p,"rx"));
+   else continue;
+   string fill=(string)p.Attribute("fill"),stroke=(string)p.Attribute("stroke");Pen pen=stroke==null||stroke=="none"?null:new Pen(Brush(stroke),p.Attribute("stroke-width")==null?1.8:N(p,"stroke-width")){StartLineCap=PenLineCap.Round,EndLineCap=PenLineCap.Round,LineJoin=PenLineJoin.Round};
+   drawing.Children.Add(new GeometryDrawing(fill==null||fill=="none"?null:Brush(fill),pen,geo));
+  }
+  drawing.Freeze();return new DrawingImage(drawing);
+ }
+ static double N(XElement e,string n){return e.Attribute(n)==null?0:double.Parse((string)e.Attribute(n),System.Globalization.CultureInfo.InvariantCulture);}
+}
+}

diff --git a/LinguaSelect.cs b/LinguaSelect.cs
@@ -26,6 +26,7 @@ static class Program {
   if(args.Contains("--preview")) { GlassWindow.Preview(); return; }
   if(args.Contains("--ui-test")) { GlassWindow.UiTests(); return; }
   if(args.Contains("--native-preview")) { GlassWindow.NativePreview(); return; }
+  if(args.Contains("--theme-preview")) { GlassWindow.ThemePreview(); return; }
   if(args.Contains("--self-test")) { Tests.Run(args.Contains("--network")); return; }
   bool first; using(var mutex = new Mutex(true,"Local\\LinguaSelect.Desktop",out first)) {
    if(!first) { MessageBox.Show("划词助手已在运行，请在系统托盘中打开。", "LinguaSelect"); return; }
@@ -40,6 +41,7 @@ public class Settings {
  public bool Automatic=true, Instant=true; public int Target=0;
  public bool ShowOriginal=true, ShowPhonetic=true, ShowTranslation=true, ShowDetails=true, ShowExamples=true, ShowStructure=true, Compact=true;
  public int GlassTint=150;
+ public string ThemeId="ios";
  public static string PathName { get { return Path.Combine(Environment.GetFolderPath(Environment.SpecialFolder.LocalApplicationData),"LinguaSelect","settings.json"); } }
  [ScriptIgnore] public string Key { get { try { return Encoding.UTF8.GetString(ProtectedData.Unprotect(Convert.FromBase64String(Secret),null,DataProtectionScope.CurrentUser)); } catch { return ""; } } }
  public void SetKey(string key) { Secret=Convert.ToBase64String(ProtectedData.Protect(Encoding.UTF8.GetBytes(key),null,DataProtectionScope.CurrentUser)); }

diff --git a/README.md b/README.md
@@ -6,7 +6,7 @@
 
 ## 下载与运行
 
-在本仓库的 **Releases** 下载 `LinguaSelect-v2.2.0-Windows.zip`，解压后双击 `LinguaSelect.exe`。
+在本仓库的 **Releases** 下载 `LinguaSelect-v2.3.0-Windows.zip`，解压后双击 `LinguaSelect.exe`。
 
 - Windows 10 / 11，需 .NET Framework 4.8。
 - Windows 11 22H2 及以后支持系统 Acrylic 背景；其他环境使用半透明卡片回退。
@@ -17,6 +17,7 @@
 - 划词后直接查询，不抢走原软件焦点。
 - 翻译、音标、系统语音朗读、词典释义、双语例句和 AI 句式解析。
 - 原文、音标、译文、释义、例句、句式六个模块独立开关。
+- 六套主题：默认 iOS 玻璃、咱们裸熊、Hello Kitty 和伙伴、Google Material、卡通涂鸦、Chiikawa。主题即时切换并自动保存。
 - 紧凑布局、玻璃浓度调节、固定卡片与手动输入。
 - OpenAI、DeepSeek、Qwen 模型与接口预设：选择分类后只需填写 API Key。
 - 密钥通过 Windows DPAPI 按用户加密保存，不同服务分别存储。
@@ -24,6 +25,12 @@
 ![Interface preview with example content](界面预览.png)
 
 预览由实际界面控件和示例文本生成，不是实时翻译结果。原生窗口样式截图见 [native-edge-preview.png](native-edge-preview.png)。
+
+## 卡片主题
+
+右上角「自定义」→「卡片主题」即可切换。每套包含配色、控件样式和内置 SVG 装饰；角色与品牌主题为非官方设计。
+
+![六套卡片主题，使用示例文本](主题总览.png)
 
 ## 使用
 
@@ -85,5 +92,6 @@ Start-Process .\LinguaSelect.exe -ArgumentList '--ui-test' -Wait
 - `ServicePresets.cs`：服务商、模型与参数预设。
 - `assets/logo.png` / `assets/app.ico`：应用 Logo 与多尺寸 Windows 图标。
 - `icons.svg`：操作图标。
+- `Themes.cs` / `themes.svg`：主题配置与矢量装饰；`--theme-preview` 生成六套主题预览。
 
 详细说明见 [使用说明.md](使用说明.md)。项目尚未指定开源许可证。

diff --git a/使用说明.md b/使用说明.md
@@ -1,4 +1,21 @@
-# Lingua · 玻璃划词卡片 v2.2.0
+# Lingua · 玻璃划词卡片 v2.3.0
+
+## 六套卡片主题
+
+在右上角「自定义卡片」最上方选择主题，点击后立即生效并保存。默认使用 **iOS 玻璃**。
+
+| 主题 | 界面设计 |
+| --- | --- |
+| iOS 玻璃 | 清透冷白、蓝色强调、无装饰横幅，保持紧凑 |
+| 咱们裸熊 | 奶油纸色、焦糖按钮、棕熊 / 熊猫 / 白熊装饰 |
+| Hello Kitty 和伙伴 | 樱花粉、礼物般的白色面板、Kitty / My Melody / Kuromi 装饰 |
+| Google · Material | 轻蓝底色、四色几何、圆润例句面板 |
+| 卡通涂鸦 | 浅黄便签、手绘字感、紫色控件、星星与笑脸、描边例句框 |
+| Chiikawa | 奶油粉与淡蓝、柔和控件、Chiikawa / Hachiware / Usagi 装饰 |
+
+所有主题统一调整正文、辅助文字、按钮、开关、滑块、输入框、例句框和 SVG 装饰。角色与品牌风格主题为本项目绘制的非官方主题。选择主题不会修改翻译服务、Key 或展示模块；原应用 Logo 保持不变。
+
+主题资源位于 `Themes.cs` 和 `themes.svg`，无需下载远程图片。使用 `--theme-preview` 可以渲染六套主题总览。
 
 已接入正式 Logo，应用 EXE、窗口标题和系统托盘使用统一图标。Logo 原图保留透明背景；Windows 图标包含 16–256 像素多个尺寸。
 
